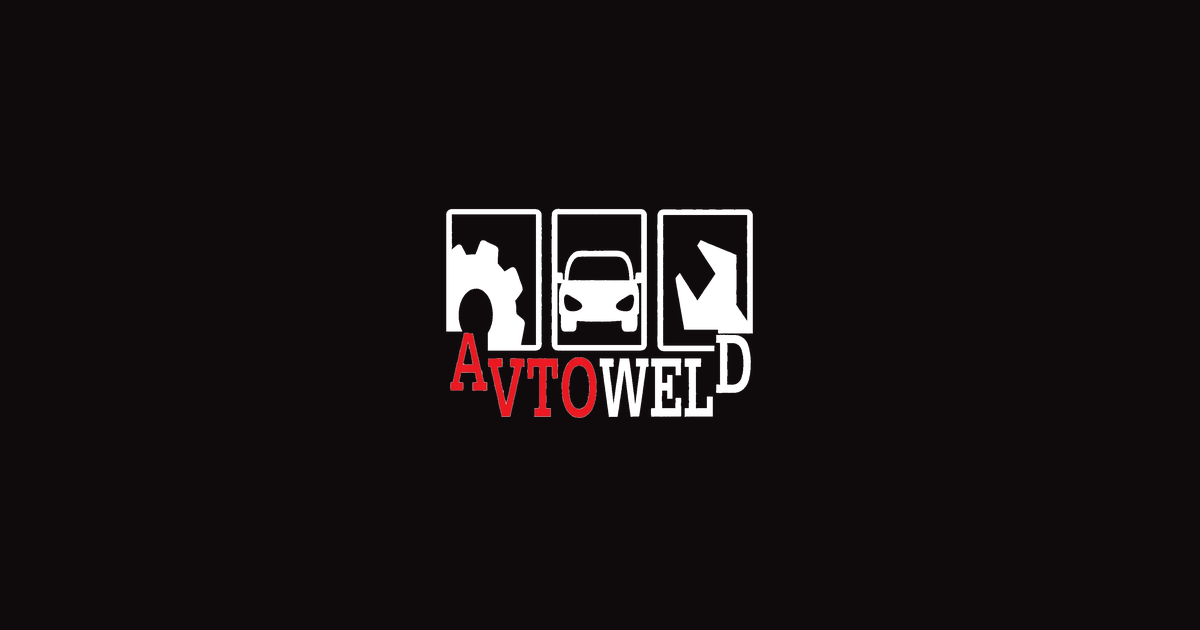
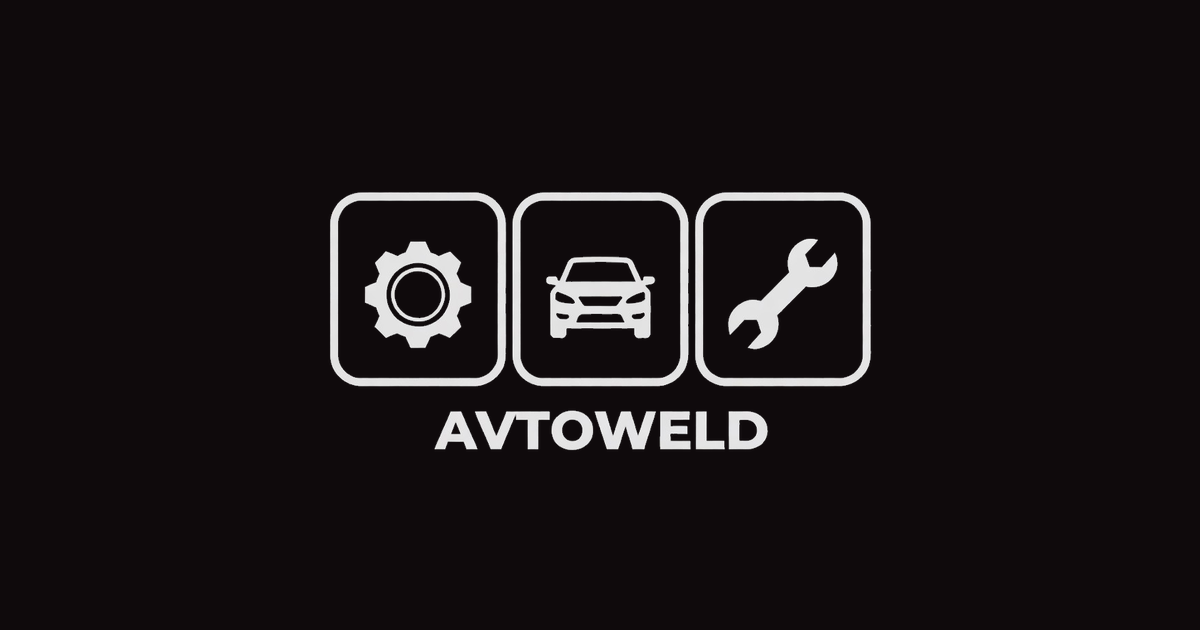
feat: новый логотип (прозрачный, инверсия), неон в цвет кнопок
- logo из черновика: фон убран, белый на прозрачном
- CSS: drop-shadow бордо #b03050 как у кнопок
- favicon/og-image обновлены, logo.png?v=3, размеры 1024×687

Made-with: Cursor

Changed region(s): [[0.2775, 0.3016, 0.74, 0.7238]]

diff --git a/assets/css/main.css b/assets/css/main.css
@@ -60,8 +60,10 @@ body {
   .text-payment-card {
     color: var(--color-payment-card);
   }
-  /* Логотип для тёмного фона: AVTO красное, остальное белое (без инверсии) */
+  /* Логотип: белый на прозрачном + неон как у кнопок (бордо #b03050) */
   .logo-on-dark {
-    /* без filter — цвета из logo.png */
+    filter: drop-shadow(0 0 8px rgb(176 48 80 / 0.85))
+      drop-shadow(0 0 20px rgb(176 48 80 / 0.5))
+      drop-shadow(0 0 36px rgb(176 48 80 / 0.25));
   }
 }

diff --git a/components/SectionHero.vue b/components/SectionHero.vue
@@ -7,10 +7,10 @@ const baseURL = useRuntimeConfig().app.baseURL || '/'
   <section class="relative overflow-hidden border-b border-site-border bg-site-surface px-4 py-16 md:py-24">
     <div class="mx-auto max-w-6xl text-center">
       <img
-        :src="`${baseURL}logo.png`"
+        :src="`${baseURL}logo.png?v=3`"
         :alt="site.name"
-        width="400"
-        height="400"
+        width="1024"
+        height="687"
         class="logo-on-dark mx-auto mb-8 h-32 w-auto object-contain md:mb-10 md:h-40"
       />
       <h1 class="sr-only">{{ site.name }}</h1>

diff --git a/components/AppHeader.vue b/components/AppHeader.vue
@@ -16,10 +16,10 @@ const baseURL = useRuntimeConfig().app.baseURL || '/'
     <div class="mx-auto flex max-w-6xl items-center justify-between gap-4 px-4 py-4">
       <NuxtLink to="/" class="flex items-center gap-3">
         <img
-          :src="`${baseURL}logo.png`"
+          :src="`${baseURL}logo.png?v=3`"
           :alt="site.name"
-          width="200"
-          height="200"
+          width="1024"
+          height="687"
           class="logo-on-dark h-12 w-auto object-contain md:h-14"
           fetchpriority="high"
         />

diff --git a/components/AppFooter.vue b/components/AppFooter.vue
@@ -9,7 +9,7 @@ const baseURL = useRuntimeConfig().app.baseURL || '/'
       <div class="grid gap-8 md:grid-cols-3">
         <div>
           <img
-            :src="`${baseURL}logo.png`"
+            :src="`${baseURL}logo.png?v=3`"
             :alt="site.name"
             width="120"
             height="40"
